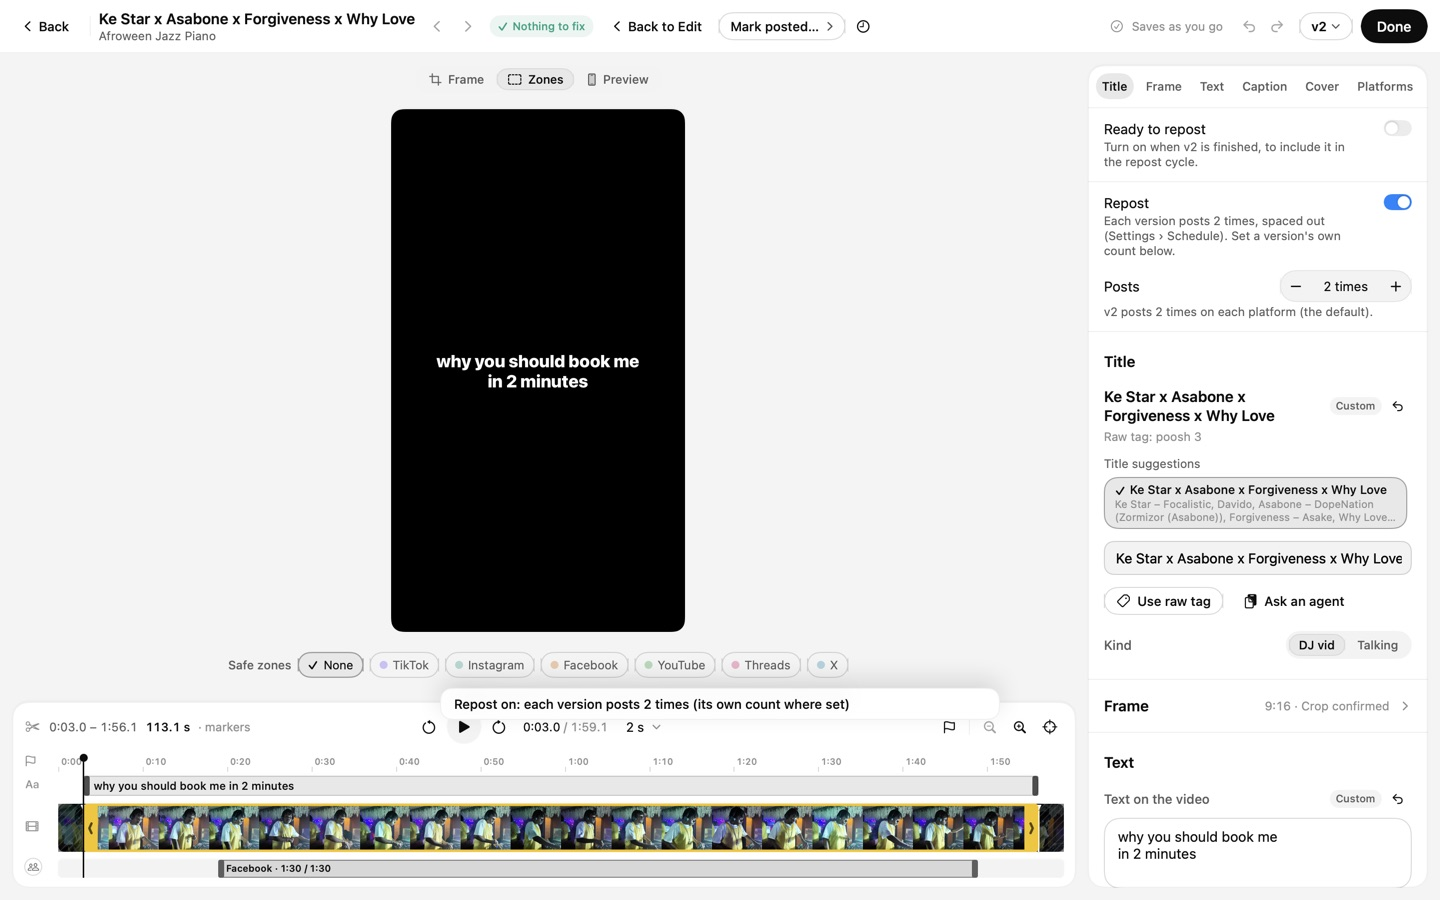
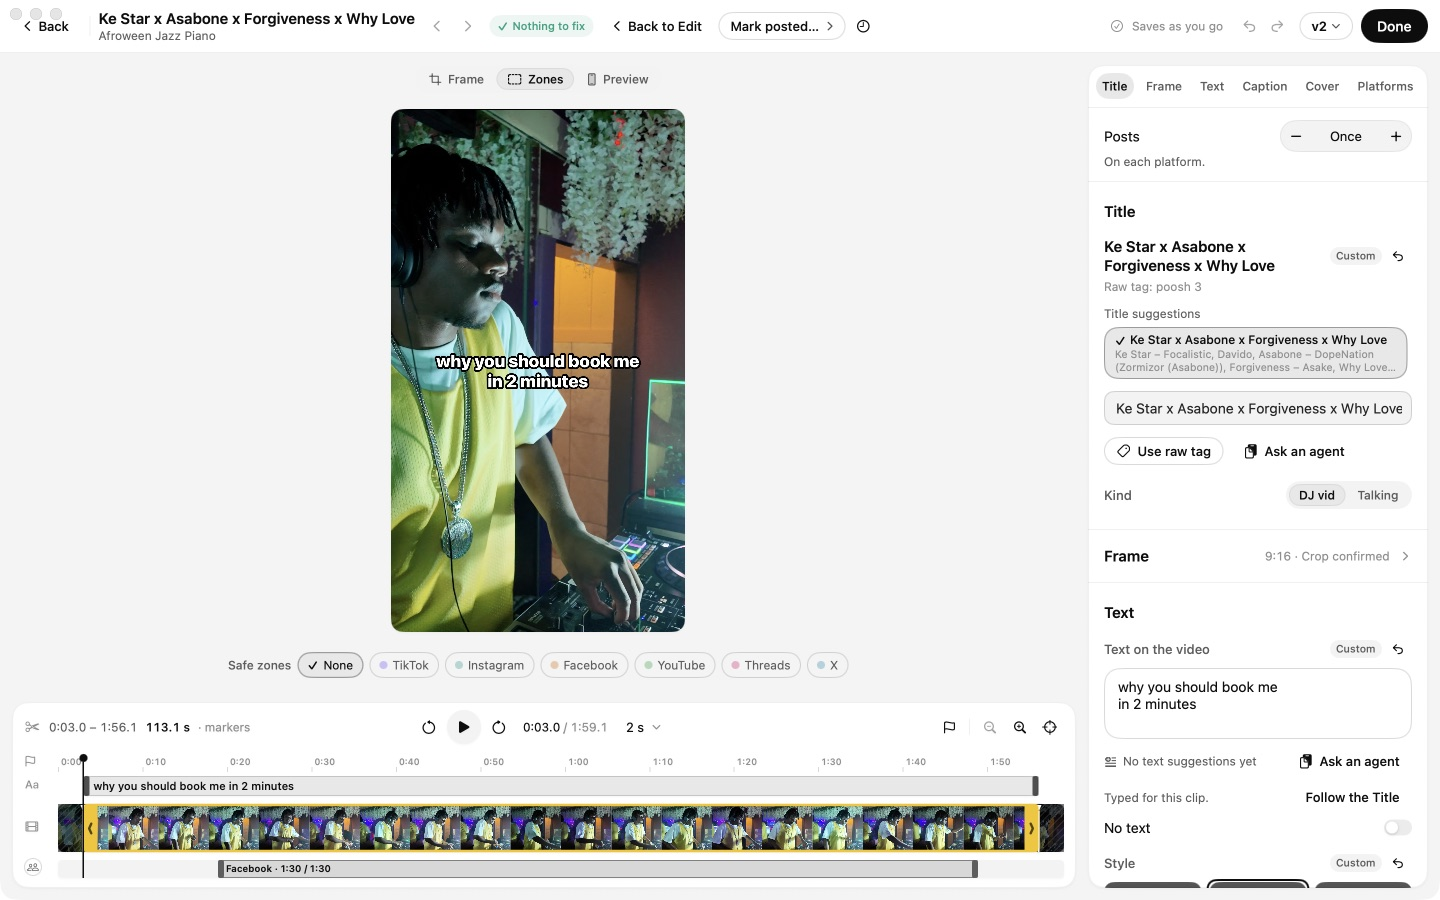
r37 docs: README, skill, ARCHITECTURE, DECISIONS-R37; media

diff --git a/README.md b/README.md
@@ -22,19 +22,17 @@ Recorded off screen from the app's own click-through checks: each frame is a rea
 | **Editor keys** (v0.13.0) — Space plays right after typing, ← → jump 2 s (5 s here), ↓ opens the next clip | **Arrow keys jump** — pick the step and try it on the strip, in Settings → Playback or beside Play |
 | ![Space, arrow jumps and ↓ in the editor](docs/media/editor-keys.gif) | ![Settings → Playback, Arrow keys jump with its try-it strip](docs/media/settings-arrow-keys.jpg) |
 
-**Versions and reposts (v0.14.0).** Each text version of a clip can be marked *Ready to repost*, so the repost cycle can pick it up; marking one never moves the clip or schedules anything. Bulk edits reach every version except captions, and the bulk dialogs say so.
+**Bulk edits on versions (v0.14.0).** Bulk edits reach every version except captions, and the bulk dialogs say so. (v0.14.0's *Ready to repost* switch is gone since v0.29.0: see *Posts and Mark repostable* below.)
 
-| Ready to repost — a switch for the version you're editing, and on each version | Bulk edits on clips with several versions |
+| Bulk edits on clips with several versions | The Caption dialog says captions change on v1 only |
 |---|---|
-| ![Marking v2 ready to repost in the editor](docs/media/repost-ready.gif) | ![Reset to defaults says what reaches every version](docs/media/bulk-versions.jpg) |
-| **Every version in one list** | **Filters › Reposts: Ready to repost** |
-| ![Version list with Ready to repost switches](docs/media/repost-versions.jpg) | ![Library filtered to clips with a version ready to repost](docs/media/repost-filter.jpg) |
+| ![Reset to defaults says what reaches every version](docs/media/bulk-versions.jpg) | ![Bulk caption dialog with the versions note](docs/media/bulk-caption-versions.jpg) |
 
 **Every version is its own copy (v0.20.0).** A new version is a complete copy of the one it came from (every text with its timing, so a text that runs the whole clip still does, plus the caption) and then stands on its own: editing v1 never changes v2, and the other way round. A copy never carries *Ready to repost*. The clip's Title, crop, cover, size, markers and platforms stay shared by every version (and the trim, unless a version has its own: see below). Existing versions were separated without changing anything they show.
 
 | A copy of v1 as v4, then v1 edited: v4 keeps what it had | The version list says what's shared |
 |---|---|
-| ![v1 copied as v4; editing v1 leaves v4 as it was](docs/media/version-copies.gif) | ![Version list: each version is its own copy](docs/media/repost-versions.jpg) |
+| ![v1 copied as v4; editing v1 leaves v4 as it was](docs/media/version-copies.gif) | ![Versions list: each version is its own copy](docs/media/version-posts-list.jpg) |
 
 **Caption defaults from the editor (v0.22.0).** At the foot of the editor's Caption section, *Make default for new clips…* lists this clip's caption template, hashtag groups (in order), extra hashtags, YouTube title template and the platforms it posts to. What differs from New clip defaults starts ticked; Make default saves the ticked parts, and the clip then reads Default. New clips start with it. Clips you already have keep exactly what they post, unless you turn on *Also update N clips that use the current defaults*; clips with scheduled or posted posts always keep theirs. A caption you typed yourself can't be a default (save it as a template first). One Undo takes it all back. The template menu's "Make … the default…" opens the same form.
 
@@ -48,7 +46,7 @@ Recorded off screen from the app's own click-through checks: each frame is a rea
 |---|---|
 | ![Dragging v3's trim end; v1 keeps the shared trim](docs/media/version-trim.gif) | ![Trim switch on All versions, dark](docs/media/version-trim-dark.jpg) |
 
-**Every version posts twice (v0.24.0; since v0.28.0 only with Repost on, see below).** Each version of a clip is its own post in the plan, and every version posts twice on each platform: v1 · 1 of 2, v2 · 1 of 2, then v1 · 2 of 2 and v2 · 2 of 2. Reposts go by count, never by views. Two posts of one clip are at least 2 days apart and a version waits a week before it posts again, so the Calendar goes round the clips and nothing posts back to back. Every Calendar card says which version post it is; the Queue keeps one card per clip, with the next version post on its date chip and the others as small tags with their day or *waiting*. Settings › Schedule has *Posts per version* and both gaps, and the editor's *Posts* row gives the version you're editing its own count (0 leaves it out). Long-form is never reposted. Agents use `djq post-count`, `djq posts-per-version` and `djq post-spacing`.
+**Every version posts twice (v0.24.0; since v0.28.0 only on repostable clips, see below).** Each version of a clip is its own post in the plan, and every version posts twice on each platform: v1 · 1 of 2, v2 · 1 of 2, then v1 · 2 of 2 and v2 · 2 of 2. Reposts go by count, never by views. Two posts of one clip are at least 2 days apart and a version waits a week before it posts again, so the Calendar goes round the clips and nothing posts back to back. Every Calendar card says which version post it is; the Queue keeps one card per clip, with the next version post on its date chip and the others as small tags with their day or *waiting*. Settings › Schedule has *Posts per version* and both gaps, and the editor's *Posts* row gives the version you're editing its own count (0 leaves it out). Long-form is never reposted. Agents use `djq post-count`, `djq posts-per-version` and `djq post-spacing`.
 
 | Posts per version in Settings, a version's own count in the editor, then the Queue and the Calendar | The Queue: the next version post on the date chip, the rest waiting |
 |---|---|
@@ -74,11 +72,13 @@ Recorded off screen from the app's own click-through checks: each frame is a rea
 |---|---|
 | ![Post today on a full evening: each platform right away, YouTube at 3:30 AM with the reason](docs/media/post-today.gif) | ![The Post today dialog in dark mode](docs/media/post-today-dark.jpg) |
 
-**Repost is off until you turn it on (v0.28.0).** Each version of a clip posts once. Turn on *Repost* in the editor (under *Ready to repost*) and that clip's versions post twice each, spaced out (Settings › Schedule › *Posts per version*). Any version can override it with its own count, on or off: the editor's *Posts* row, or the *Posts* stepper on each row of the versions list next to the ↑ / ↓ order (↺ goes back to the clip's Repost; *Never* leaves a version out). Reposts already planned for clips you hadn't turned on came off, and the Calendar closed up: what was 41 days of content is back to first posts only. A repost that already went out counts as that version's one post. Agents use `djq reposts <clip> on|off` and `djq post-count`.
+**Posts and Mark repostable (v0.28.0, one control since v0.29.0).** Each version posts once unless you say otherwise. In the editor there's one repost control: **Posts** on the version you're editing, and a Posts stepper on every row of the versions list (Never, Once, 2 times …; ↺ goes back to the clip's setting). For whole clips, select them on the Queue, Edit or Library (or right-click one, also on the Calendar and in ⌘K) and choose **Mark repostable**: every version then posts twice, spaced out (Settings › Schedule › *Posts per version*), unless a version has its own Posts. **Mark not repostable** puts every version back to once; reposts already planned come off and the Calendar closes up. Both ask first and have Undo. Filters › Reposts shows *Repostable* or *Posts once*, and ⌘K finds "repostable". Agents use `djq bulk repostable|not-repostable`, `djq reposts <clip> on|off` and `djq post-count`.
 
-| Repost on a clip, with the Posts count under it | Each version's Posts in the versions list |
+| Mark repostable on the Queue asks first | Posts is the one control in the editor |
 |---|---|
-| ![Editor inspector with Repost on and Posts 2 times](docs/media/repost-switch.jpg) | ![Versions list with a Posts stepper on every version](docs/media/version-posts-list.jpg) |
+| ![Mark 2 clips repostable? Each version 2 times, spaced out](docs/media/mark-repostable.jpg) | ![Editor inspector with Posts at the top](docs/media/repost-switch.jpg) |
+| **Each version's Posts in the versions list** | **Filters › Reposts: Repostable** |
+| ![Versions list with a Posts stepper on every version](docs/media/version-posts-list.jpg) | ![Edit filtered to repostable clips](docs/media/repostable-filter.jpg) |
 
 **Pick which version posts first (v0.27.0).** Each clip's versions post in an order you set: the editor's version list shows them in that order with *1st*, *2nd*, *3rd*, and the ↑ / ↓ arrows (or *Post vN first* in a row's ⋯ menu) move one. Days already on the Calendar keep their dates and swap which version they carry, so the clip's next day goes out with the version you put first; a day that's today, has a set time, or is already in Postiz stays as it was. Every version's row says when it posts in one line, *Planned to post Tue 1 Dec 11:00 AM* or *Waiting for a day in the Queue*, with no platform list. Clips you removed on purpose (out of videos.json and excluded) leave Library › All and read *Removed* under Excluded instead of *File missing*. Agents use `djq version-order <clip> 2,1,3`.
 

diff --git a/ARCHITECTURE.md b/ARCHITECTURE.md
@@ -219,6 +219,7 @@ Eric's pipeline is Score → Edit → Queue → Posted. Decisions: `DECISIONS-R1
 - **Round 31: every version is its own post (DECISIONS-R31.md).** A plan slot carries one version post (`PlanSlot.unit`: version, post number; schema 12 `plan_slots.version_no/post_no`, `platform_posts.post_no`, NULL = v1 · 1). Each version posts `Settings.postsPerVersion` (2) times per platform, or its own `Version.postCount`. `UnitBook` (`Engine/PostUnits.swift`) reads which version posts each clip still needs; `UnitPicker` fills open days round-robin by clip (longest without a post first, Queue order on a tie), first posts before repeats, with `sameClipGapDays` (2) and `sameVersionGapDays` (7); first posts look 30 days ahead, repeats 7 (round 34 replaced that: see below). Postiz lineage and the automatic-retry key are per version post (`main`, `v<N>`, `v<N>p<K>`); retries are ruled out or held by their own version post only (copyright stays clip-wide). A lower count drops the extra version posts (`Planner.dropUnitsBeyondCount`). Clips that had finished posting at the upgrade keep one post (kv `plan.finishedBeforeR31`).
 - **Round 34: every post in the Queue has a day (DECISIONS-R34.md).** `Planner.fill` runs in two steps: a clip new to the Queue (no day, no post) takes the earliest open position, or from `Planner.firmDays` (7) on the day of the earliest movable repeat, which goes back to waiting; then open positions take the next version post with the round-31 rules out to `autoScheduleHorizonDays` (365, a runaway bound; the pass stops when nothing is left). Repeats no longer stop at a week ahead, so nothing in the Queue reads "Not scheduled" while days are open.
 - **Round 36: Repost is off by default (DECISIONS-R36.md).** kv `plan.repost` lists the clips with Repost on (`RepostSwitch`, `Store.setRepost`). `PostUnits.count`: a version's own count wins (0 = never); otherwise `postsPerVersion` with Repost on, else 1. `ClipUnits.needsPost` also counts a version done on a platform once it has that many of its posts there, and `dropUnitsBeyondCount` takes a version's later day off when its other posts already make its count (latest first). Posts coming off (a lower count, Repost off: kv `plan.compactDue`) make the pass re-lay the movable days in their old order, so the calendar closes up.
+- **Round 37: one repost control (DECISIONS-R37.md).** The editor has only Posts (`EditorPostCountRow`, a stepper per `EditorVersionList` row); Ready to repost and the clip switch are gone from the UI. Clip-wide: `BulkActions.setRepostable` (journaled with the plan and `ClipSnap.repost`, journaled only by this action) behind `AppModel.markRepostable` / `RepostMenuItems` on the Queue, Edit, Library, Calendar and ⌘K menus. `Store.repostableClips()` (UnitBook: any version count > 1) feeds Filters › Reposts, search and the API.
 - **Lead time:** a position is open only when its earliest platform time is 30 min away or more; no post is ever created in the past or inside the lead. A swap that would put another clip inside it is refused.
 - **Plan days:** `Placer`, `reflow`, `push` and `makeRoom` key a post by its plan day (`Sched.planDay`), not the local posting day: with 3 a day and a 180-minute offset, position 2 posts after midnight.
 - **Relay:** only when posts/day or the Queue sort changes (kv `plan.layoutSig`), once; the first run just records it. Pinned, posted, sooner than 60 min, handed-to-the-Calendar and Postiz-published slots stay. Everything else about a gap is filled from the backlog; other clips keep their days.
@@ -283,7 +284,7 @@ Eric picks an exact day and time for an item; every platform it posts to goes ou
 ## Round 20 additions — ready to repost, bulk edits on versions
 - `Version.repostReady` (per version, never carried forward) and `Version.captionsOwn` are optional JSON keys: no schema change. `Sources/DJQCore/RepostReady.swift`: `Store.setRepostReady` writes only the flag (no `updated_at`, no `refreshState`; a v1 written just for the mark is stamped 0, which `PreviewStampTable` skips), `repostReadyVersions()` (one query, for `AppModel.repostReady`, filters and search), and the repost round's read-only inputs `nextRepostReadyVersion(videoId:platform:)` / `RepostReady.candidates`. `VersionMerge.keepingOutsideChanges` keeps the mark and a bulk pin when an open editor saves.
 - `VersionResolver`: caption fields resolve through `captionChain`, cut at the latest version with `captionsOwn`, so a pinned version never inherits captions from earlier ones. `BulkActions.keepLaterCaptions` pins every later version a caption-family change on v1 would reach (and those that follow a pinned one); `applyDefaults(.text)` resets the look on every version. Bulk undo ignores and keeps `repostReady`.
-- UI: `EditorRepostReadyRow` (inspector), a switch per `EditorVersionList` row, the picker's check; `EditorModel.setRepostReady` writes through the store directly. `ListFilterKey.repost` on Edit, Queue and Library. `BulkVersionScope` (DJQCore) + `BulkRequest.versionScope` + `BulkVersionNote` say which versions a bulk change reaches. Live check `repost-ready` (`Editor/RepostReadyScript.swift`).
+- UI (until round 37, which removed it): `EditorRepostReadyRow` (inspector), a switch per `EditorVersionList` row, the picker's check; `EditorModel.setRepostReady` writes through the store directly. `ListFilterKey.repost` on Edit, Queue and Library. `BulkVersionScope` (DJQCore) + `BulkRequest.versionScope` + `BulkVersionNote` say which versions a bulk change reaches. Live check `repost-ready` (`Editor/RepostReadyScript.swift`).
 
 ## Round 21 additions: photo posts
 Decisions: `DECISIONS-R21.md` (D1–D11, D15–D19 and "Decisions made while building (core photos)"). Core, CLI and tests only; no screen

diff --git a/DECISIONS-R37.md b/DECISIONS-R37.md
@@ -1,0 +1,44 @@
+# Decisions: round 37, one repost control and bulk Mark repostable
+
+Eric (2026-11-15): "allow me to mark videos as repostable in my queue or edit pages for bulk actions"; standing rule:
+"whenever we're making a fix, we have to scan the whole app and see what other surfaces that fix or new feature
+touches"; and about the editor showing Ready to repost, Repost and Posts stacked: "what is the point of the redundancy,
+it is confusing".
+
+## Decisions
+
+1. **One control per version: Posts** (Never, Once, 2 times …). It's the only repost control in the editor (the
+   inspector row and each row of the versions list). "Ready to repost" (round 20) and the clip-level Repost switch
+   (round 36) are gone from the editor. A version's Posts always wins.
+2. **The whole clip: Mark repostable / Mark not repostable**, a bulk action that asks first and has Undo, like every
+   other bulk action. Repostable: every version posts `Settings › Posts per version` times (2) unless it has its own
+   Posts. Not repostable: every version posts once; a version's own Posts above once goes back to once (Never stays
+   Never); reposts already planned come off and the calendar closes up (round 36). One clip shows the item that changes
+   it, several show both.
+3. **Stored as before**: the clip-wide mark is kv `plan.repost` (planning data, nothing re-renders). Undo restores the
+   mark, the versions' counts and the plan; the mark is journaled only by this action, so it never blocks or changes
+   the undo of another batch.
+4. **Ready to repost data stays** (`Version.repostReady`) but nothing shows or sets it; Eric had no version marked. Its
+   old names point at the new action: `djq repost-ready` = `djq reposts`, filter `repost-ready` = `repostable`.
+5. **"Repostable"** means some version posts more than once (marked, or a version's own Posts above once). That's what
+   the filter, search and the API say.
+
+## Surfaces (the whole-app scan)
+
+| Surface | Before | Now |
+|---|---|---|
+| Editor inspector | Ready to repost row, Repost switch, Posts | Posts only |
+| Versions list (popover) | Ready to repost switch + label per row, Posts | Posts per row; header copy shorter |
+| Version picker (header) | green check + tooltip for a ready version | plain v1 ▾, tooltip mentions Posts |
+| Queue | nothing | bulk bar ⋯ and card menu: Mark repostable / not repostable |
+| Edit | nothing | bulk bar ⋯ and card menu: same |
+| Library | nothing | bulk bar ⋯ and the clip menu: same |
+| Calendar | nothing | clip menu: same |
+| ⌘K | "ready to repost" found marked versions | "repostable" finds repostable clips; clip menu has the action |
+| Filters › Reposts (Queue, Edit, Library) | Ready to repost / No version ready | Repostable / Posts once |
+| Settings › Posts per version | the count when Repost is on | the count for repostable clips |
+| djq | `reposts`, `repost-ready`, `videos --repost-ready`, filter `repost-ready` | `reposts`, `bulk repostable|not-repostable`, `videos --repostable`; the old names still work |
+| Agent API | `repost_ready_versions`, `repost` | + `repostable` on every clip; `repost` = repostable |
+| Editor open during a bulk | n/a | the Posts row follows the new mark on the next change signal |
+| Live checks | `repost-ready` | `repostable` (+dark); `version-posts` updated |
+| README, ARCHITECTURE, skill | Ready to repost, Repost switch | Posts + Mark repostable |

diff --git a/skills/dj-queue-agent/SKILL.md b/skills/dj-queue-agent/SKILL.md
@@ -154,9 +154,9 @@ djq overlay remove <video> <number|id> [--version N]
 ### Versions: ready to repost, and bulk edits (round 20)
 
 ```sh
-djq repost-ready <video> [--version N] [--off]   # mark (or unmark) a text version ready to repost; default v1
-djq repost-ready --list [--json]                 # every clip with a version ready to repost
-djq videos --repost-ready [--json]               # same filter on the clip list (also --state repost-ready, bulk --filter repost-ready)
+djq bulk repostable --ids a,b | bulk not-repostable --ids a,b   # Mark repostable (every version posts Posts per version, 2) or not (once); asks nothing, undo with bulk undo — only on Eric's word
+djq reposts <video> [on|off] | reposts --list   # one clip; `repost-ready` is the old name
+djq videos --repostable [--json]                # repostable clips (some version posts more than once; filter `repostable`)
 ```
 
 - Marking a version ready only marks it: the clip's stage, Queue, slots and posts don't change, and nothing is scheduled.
@@ -171,7 +171,7 @@ djq videos --repost-ready [--json]               # same filter on the clip list 
 - Round 27: every version from v2 on is its own copy (`standalone: true` in `djq video --json`). Nothing carries
   forward between versions: editing v1 never changes v2 and the other way round; what a version doesn't set follows
   the defaults. `djq text|caption|youtube-title --version N` on a version that doesn't exist yet makes it as a full
-  copy of the one before, then applies the change. A copy never carries "Ready to repost".
+  copy of the one before, then applies the change. A copy posts once unless its clip is repostable or you set its Posts.
 
 ### Trim per version (round 30)
 
